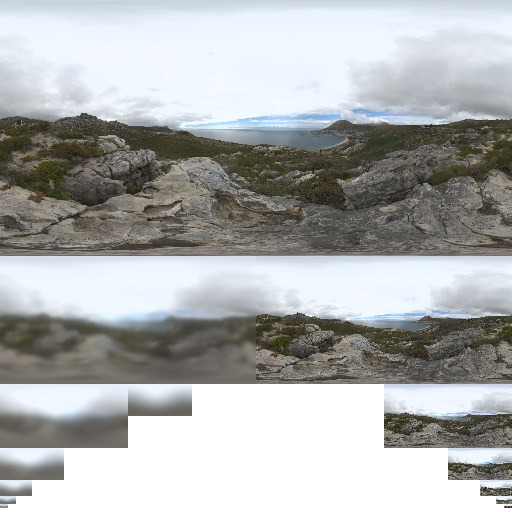
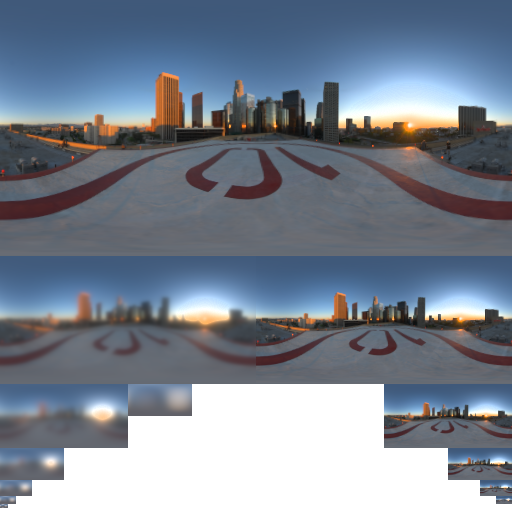
Fix env atlas vertical flip and align edge-detect with upstream

diff --git a/examples/src/edge-detect-example.cpp b/examples/src/edge-detect-example.cpp
@@ -142,7 +142,8 @@ void main()
         camera->setLocalEulerAngles(pitchDeg, yawDeg, 0.0f);
     }
 
-    void setRenderLayersRecursive(GraphNode* node, const std::vector<int>& layers)
+    // Mirrors upstream's instantiateRenderEntity({ castShadows, receiveShadows, layers }).
+    void applyRenderOptionsRecursive(GraphNode* node, const std::vector<int>& layers)
     {
         if (!node) {
             return;
@@ -151,32 +152,14 @@ void main()
         if (auto* entity = dynamic_cast<Entity*>(node)) {
             if (auto* render = entity->findComponent<RenderComponent>()) {
                 render->setLayers(layers);
+                render->setCastShadows(true);
+                render->setReceiveShadows(true);
             }
         }
 
         for (const auto& child : node->children()) {
-            setRenderLayersRecursive(child.get(), layers);
+            applyRenderOptionsRecursive(child.get(), layers);
         }
-    }
-
-    BoundingBox calcEntityAABB(Entity* entity)
-    {
-        BoundingBox bbox;
-        bbox.setCenter(0, 0, 0);
-        bbox.setHalfExtents(0, 0, 0);
-        if (!entity) return bbox;
-        bool hasAny = false;
-        for (auto* render : RenderComponent::instances()) {
-            if (!render || !render->entity()) continue;
-            auto* owner = render->entity();
-            if (owner != entity && !owner->isDescendantOf(entity)) continue;
-            for (auto* mi : render->meshInstances()) {
-                if (!mi) continue;
-                if (!hasAny) { bbox = mi->aabb(); hasAny = true; }
-                else { bbox.add(mi->aabb()); }
-            }
-        }
-        return bbox;
     }
 
     struct RenderableStats
@@ -347,22 +330,13 @@ int main()
         return -1;
     }
     boardEntity->setEngine(engine.get());
-    setRenderLayersRecursive(boardEntity, {LAYERID_RT});
+    applyRenderOptionsRecursive(boardEntity, {LAYERID_RT});
     engine->root()->addChild(boardEntity);
 
-    // Normalize board so longest extent is ~50 units, centered at origin
-    {
-        const auto bbox = calcEntityAABB(boardEntity);
-        const auto& he = bbox.halfExtents();
-        const auto& ct = bbox.center();
-        const float maxExtent = std::max({he.getX(), he.getY(), he.getZ()}) * 2.0f;
-        if (maxExtent > 0.001f) {
-            const float s = 100.0f / maxExtent;
-            boardEntity->setLocalScale(s, s, s);
-            boardEntity->setLocalPosition(-ct.getX() * s, -ct.getY() * s, -ct.getZ() * s);
-            spdlog::info("Board model: extent={:.1f}, scale={:.3f}", maxExtent, s);
-        }
-    }
+    // The board keeps its authored transform, exactly like upstream. The model is
+    // ~340 units across, so the orbiting render-target camera at radius 100 sits
+    // among the pieces — that close-up is the shot the example is built around.
+    // Re-scaling it to fit the frame turns it into a distant speck on white.
 
     RenderableStats boardStats;
     gatherRenderableStats(boardEntity, boardStats);
@@ -381,6 +355,10 @@ int main()
         return -1;
     }
 
+    // Directional light on the default WORLD layer, as upstream declares it. Note it
+    // therefore does NOT reach the board, which lives on the RT layer only — the board
+    // is lit purely by the environment atlas. Putting the light on LAYERID_RT would
+    // add a key light upstream does not have.
     auto* rtLight = new Entity();
     rtLight->setEngine(engine.get());
     auto* rtLightComp = static_cast<LightComponent*>(rtLight->addComponent<LightComponent>());
@@ -388,7 +366,6 @@ int main()
         rtLightComp->setType(LightType::LIGHTTYPE_DIRECTIONAL);
         rtLightComp->setColor(Color(1.0f, 1.0f, 1.0f, 1.0f));
         rtLightComp->setIntensity(1.0f);
-        rtLightComp->setLayers({LAYERID_RT});
     }
     rtLight->setLocalEulerAngles(45.0f, 45.0f, 0.0f);
     engine->root()->addChild(rtLight);
@@ -440,23 +417,19 @@ int main()
         rtCamera->camera()->setFarClip(500.0f);
         rtCamera->camera()->setClearColor(Color(1.0f, 1.0f, 1.0f, 1.0f));
     }
-    rtCameraEntity->setLocalPosition(60.0f, 30.0f, 60.0f);
+    rtCameraEntity->setLocalPosition(100.0f, 35.0f, 0.0f);
     setLookAt(rtCameraEntity, Vector3(0.0f, 0.0f, 0.0f));
     engine->root()->addChild(rtCameraEntity);
 
+    // Main camera: keeps its default layer set so the environment skybox fills the
+    // background behind the two display quads (upstream relies on the same default).
     auto* mainCameraEntity = new Entity();
     mainCameraEntity->setEngine(engine.get());
     auto* mainCamera = static_cast<CameraComponent*>(mainCameraEntity->addComponent<CameraComponent>());
     if (mainCamera && mainCamera->camera()) {
-        mainCamera->setLayers({LAYERID_WORLD});
-        mainCamera->camera()->setClearColor(Color(0.0f, 0.0f, 0.0f, 1.0f));
-        mainCamera->camera()->setNearClip(0.1f);
-        mainCamera->camera()->setFarClip(200.0f);
-        mainCamera->camera()->setProjection(ProjectionType::Perspective);
-        mainCamera->camera()->setFov(60.0f);
+        mainCamera->camera()->setClearColor(Color(0.2f, 0.2f, 0.3f, 1.0f));
     }
-    mainCameraEntity->setLocalPosition(0.0f, 0.0f, 12.0f);
-    setLookAt(mainCameraEntity, Vector3(0.0f, 0.0f, 0.0f));
+    mainCameraEntity->setLocalPosition(0.0f, 0.0f, 0.0f);
     engine->root()->addChild(mainCameraEntity);
 
     auto displayOriginalPass = std::make_shared<RenderPassDownsample>(graphicsDevice, sourceTexture.get());
@@ -529,7 +502,7 @@ int main()
             }
         }
 
-        const float cameraAngle = -time * 0.2f;
+        const float cameraAngle = time * 0.2f;
         rtCameraEntity->setLocalPosition(100.0f * std::sin(cameraAngle), 35.0f, 100.0f * std::cos(cameraAngle));
         setLookAt(rtCameraEntity, Vector3(0.0f, 0.0f, 0.0f));
 

diff --git a/engine/src/framework/assets/asset.cpp b/engine/src/framework/assets/asset.cpp
@@ -119,7 +119,11 @@ namespace visutwin::canvas
                 int height = 0;
                 int channels = 0;
                 // upstream texture loading keeps source orientation; env-atlas UV layout depends on this.
-                stbi_set_flip_vertically_on_load(false);
+                // MUST be the _thread variant: glbParser calls stbi_set_flip_vertically_on_load_thread(true),
+                // and once stb's thread-local flag has been set it permanently overrides the global one on
+                // that thread. Clearing only the global here left every texture loaded after a GLB on the
+                // same thread flipped — which silently turned the environment atlas upside down.
+                stbi_set_flip_vertically_on_load_thread(false);
 
                 const bool isHdr = _file.size() >= 4 &&
                     _file.compare(_file.size() - 4, 4, ".hdr") == 0;

diff --git a/assets/ASSETS.md b/assets/ASSETS.md
@@ -1,8 +1,14 @@
 # Public Example Assets
 
-All assets in this directory are safe for open-source distribution.
-Most are CC-0 (public domain). Several models are CC-BY 4.0 and require
-attribution — see THIRD_PARTY_NOTICES for details.
+Most assets in this directory are CC-0 (public domain). Several models are
+CC-BY 4.0 and require attribution — see THIRD_PARTY_NOTICES for details.
+
+One exception to be aware of before a public release: the three
+`cubemaps/*-env-atlas.png` files are mirrored byte-for-byte from the PlayCanvas
+example set, which documents no license for them individually. Their original
+HDR provenance is therefore unconfirmed. They are kept because exact visual
+parity with the upstream examples depends on them; substitute CC-0 atlases
+(see `tools/generate-env-atlas`) if that provenance matters for a given release.
 
 Many assets are mirrored from the PlayCanvas engine example set so the
 VisuTwin examples can visually match their PlayCanvas counterparts. Assets
@@ -66,10 +72,21 @@ Mirrored from PlayCanvas examples (for visual parity):
 - `skull.compressed.ply` — SuperSplat compressed gsplat w/ SH from PlayCanvas (CC-0)
 
 ### cubemaps/ — complete
-- `helipad-env-atlas.png` — 512x512 RGBP atlas generated from cannon-2k.hdr (CC-0, derived)
-- `table-mountain-env-atlas.png` — 512x512 RGBP atlas generated from kloofendal-2k.hdr (CC-0, derived)
+- `helipad-env-atlas.png` — 512x512 RGBP atlas mirrored from the PlayCanvas example set
+- `table-mountain-env-atlas.png` — 512x512 RGBP atlas mirrored from the PlayCanvas example set
+- `morning-env-atlas.png` — 512x512 RGBP atlas mirrored from the PlayCanvas example set
 
-Generated with `tools/generate-env-atlas` using the engine's EnvLighting CPU pipeline.
+All three are byte-identical to the PlayCanvas example assets, so the examples
+light identically to their upstream counterparts. The PlayCanvas repository is
+MIT-licensed and ships no separate attribution file for these atlases, so the
+original HDR sources are not documented upstream — see THIRD_PARTY_NOTICES.
+
+Previously `helipad-env-atlas.png` and `table-mountain-env-atlas.png` were
+locally generated with `tools/generate-env-atlas` (from Poly Haven `cannon-2k.hdr`
+and `kloofendal-2k.hdr`, CC-0) and only borrowed the upstream filenames — they
+were entirely different environments, which made every example that used them
+light differently from upstream. That tool still works if CC-0-only atlases are
+ever needed again.
 
 ## Sources
 
